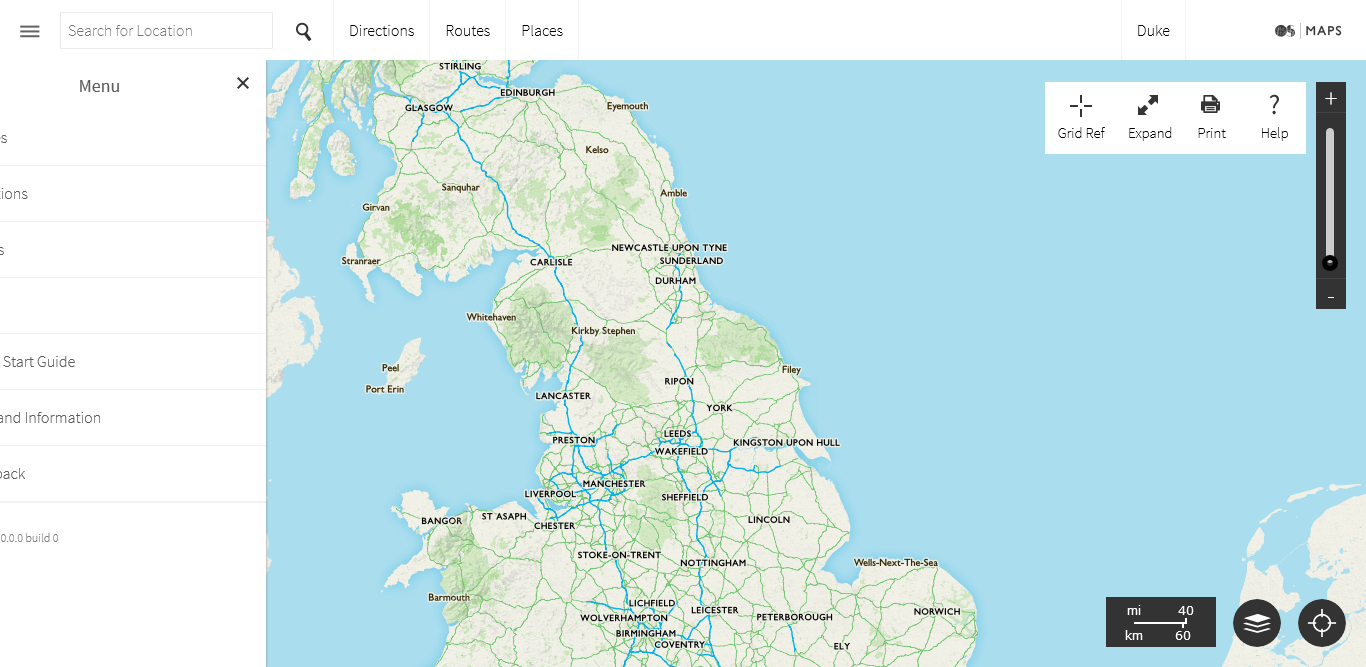
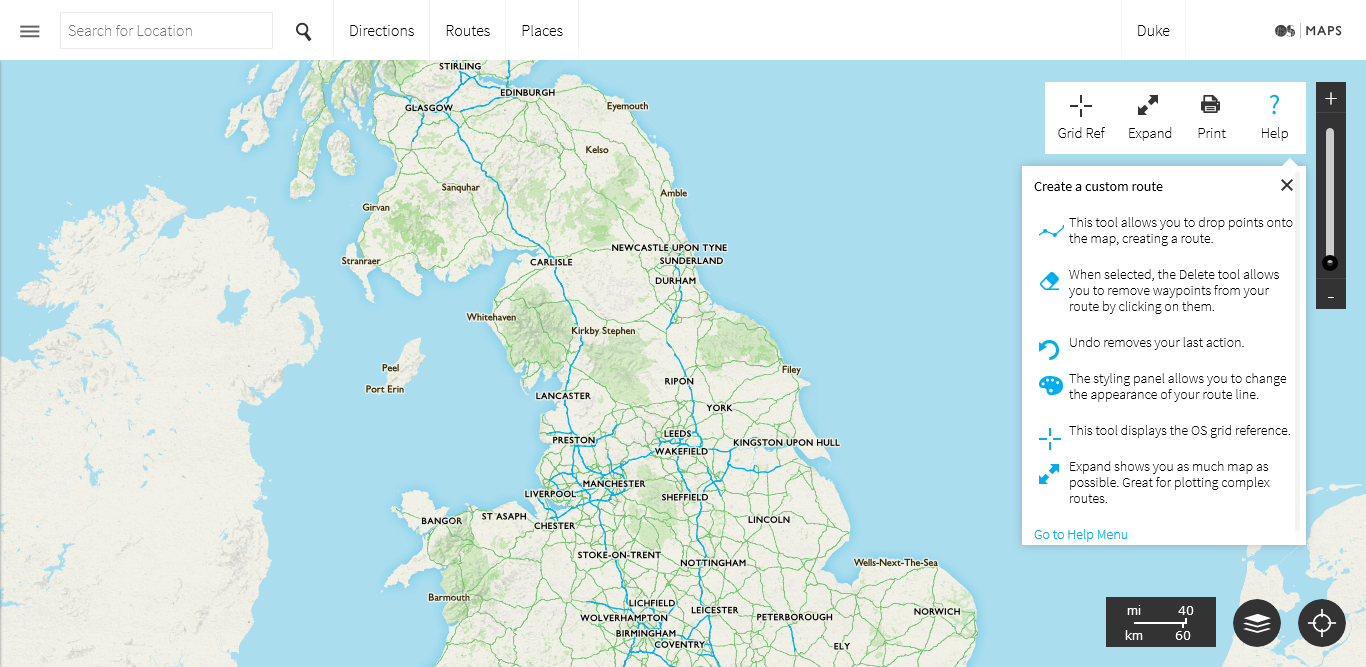
"Snap" test added, "Places" test modify

Changed region(s): [[0.0, 0.09, 0.2152, 1.0], [0.7379, 0.2399, 0.9531, 0.8396]]

diff --git a/html5-automationtest/target/reports/workingset/report.js b/html5-automationtest/target/reports/workingset/report.js
@@ -1,22 +1,22 @@
-$(document).ready(function() {var formatter = new CucumberHTML.DOMFormatter($('.cucumber-report'));formatter.uri("PlacesDisabled.feature");
+$(document).ready(function() {var formatter = new CucumberHTML.DOMFormatter($('.cucumber-report'));formatter.uri("SnapEnabled.feature");
 formatter.feature({
   "line": 2,
-  "name": "Verify if user is NOT able to see \"Places\" functionality",
+  "name": "Verify if \"Snap\" functionality is Enabled and it works as expected",
   "description": "",
-  "id": "verify-if-user-is-not-able-to-see-\"places\"-functionality",
+  "id": "verify-if-\"snap\"-functionality-is-enabled-and-it-works-as-expected",
   "keyword": "Feature",
   "tags": [
     {
       "line": 1,
-      "name": "@testDisabled"
+      "name": "@testEnabled"
     }
   ]
 });
 formatter.scenario({
   "line": 4,
-  "name": "Check whether \"Places\" is NOT available on top bar menu",
+  "name": "Check whether \"Snap\" functionality is available",
   "description": "",
-  "id": "verify-if-user-is-not-able-to-see-\"places\"-functionality;check-whether-\"places\"-is-not-available-on-top-bar-menu",
+  "id": "verify-if-\"snap\"-functionality-is-enabled-and-it-works-as-expected;check-whether-\"snap\"-functionality-is-available",
   "type": "scenario",
   "keyword": "Scenario"
 });
@@ -29,137 +29,131 @@ formatter.step({
   "comments": [
     {
       "line": 6,
-      "value": "#\t\tAnd \u0027Places\u0027 function is disabled"
+      "value": "#\t\tWhen \u0027Snap\u0027 functionality is enabled"
     }
   ],
   "line": 7,
-  "name": "\u0027Places\u0027 should NOT be visible",
-  "keyword": "Then "
-});
-formatter.match({
-  "location": "GivenSteps.i_log_into_OS_maps_as_a_guest_registered_subscribed_user()"
-});
-formatter.result({
-  "duration": 28594117897,
-  "status": "passed"
-});
-formatter.match({
-  "location": "PlacesDisabled_steps.directions_should_NOT_be_visible()"
-});
-formatter.result({
-  "duration": 35692436,
-  "status": "passed"
-});
-formatter.after({
-  "duration": 103970,
-  "status": "passed"
-});
-formatter.scenario({
-  "line": 9,
-  "name": "Check whether \"Places\" is available NOT in left slider menu",
-  "description": "",
-  "id": "verify-if-user-is-not-able-to-see-\"places\"-functionality;check-whether-\"places\"-is-available-not-in-left-slider-menu",
-  "type": "scenario",
-  "keyword": "Scenario"
-});
-formatter.step({
-  "line": 10,
-  "name": "I log into OS maps as a guest/registered/subscribed user",
-  "keyword": "Given "
-});
-formatter.step({
-  "comments": [
-    {
-      "line": 11,
-      "value": "#\t\tAnd \u0027Places\u0027 function is disabled"
-    }
-  ],
-  "line": 12,
-  "name": "I select left slider menu",
+  "name": "I switch to \u0027National Park pathways\u0027 map type",
   "keyword": "When "
 });
 formatter.step({
-  "line": 13,
-  "name": "\u0027Places\u0027 in left burger menu should NOT be visible",
+  "line": 8,
+  "name": "I zoom in map on National Park location",
+  "keyword": "And "
+});
+formatter.step({
+  "line": 9,
+  "name": "I open \u0027Create custom route\u0027",
+  "keyword": "And "
+});
+formatter.step({
+  "line": 10,
+  "name": "\u0027Snap\u0027 button should be visible and enabled",
   "keyword": "Then "
 });
 formatter.match({
   "location": "GivenSteps.i_log_into_OS_maps_as_a_guest_registered_subscribed_user()"
 });
 formatter.result({
-  "duration": 28789781507,
+  "duration": 25203768818,
   "status": "passed"
 });
 formatter.match({
-  "location": "WhenSteps.i_select_left_slider_menu()"
+  "location": "WhenSteps.i_switch_to_National_Park_pathways_map_type()"
 });
 formatter.result({
-  "duration": 284060267,
+  "duration": 552131702,
   "status": "passed"
 });
 formatter.match({
-  "location": "PlacesDisabled_steps.directions_in_left_burger_menu_should_NOT_be_visible()"
+  "location": "SnapEnabled_steps.i_zoom_in_map()"
 });
 formatter.result({
-  "duration": 28578313,
+  "duration": 360126886,
+  "status": "passed"
+});
+formatter.match({
+  "location": "WhenSteps.i_open_Create_custom_route()"
+});
+formatter.result({
+  "duration": 2622487700,
+  "status": "passed"
+});
+formatter.match({
+  "location": "SnapEnabled_steps.snap_button_should_be_visible_and_enabled()"
+});
+formatter.result({
+  "duration": 182723551,
   "status": "passed"
 });
 formatter.after({
-  "duration": 48638,
+  "duration": 127617,
   "status": "passed"
 });
 formatter.scenario({
-  "line": 15,
-  "name": "Check whether \"The Places menu\" topic is NOT available in Help Menu",
+  "line": 12,
+  "name": "Check whether \"Snap\" description is available in \u0027Create custom route\u0027 help topic",
   "description": "",
-  "id": "verify-if-user-is-not-able-to-see-\"places\"-functionality;check-whether-\"the-places-menu\"-topic-is-not-available-in-help-menu",
+  "id": "verify-if-\"snap\"-functionality-is-enabled-and-it-works-as-expected;check-whether-\"snap\"-description-is-available-in-\u0027create-custom-route\u0027-help-topic",
   "type": "scenario",
   "keyword": "Scenario"
 });
 formatter.step({
-  "line": 16,
+  "line": 13,
   "name": "I log into OS maps as a guest/registered/subscribed user",
   "keyword": "Given "
 });
 formatter.step({
   "comments": [
     {
-      "line": 17,
-      "value": "#\t\tAnd \u0027Places\u0027 function is disabled"
+      "line": 14,
+      "value": "#\t\tAnd \u0027Snap\u0027 function is enabled"
     }
   ],
-  "line": 18,
+  "line": 15,
   "name": "I open \u0027Help\u0027",
   "keyword": "When "
 });
 formatter.step({
-  "line": 19,
-  "name": "I should NOT be able to see \u0027The Places menu\u0027 topic",
+  "line": 16,
+  "name": "I click \u0027Create custom route\u0027 help topic",
+  "keyword": "And "
+});
+formatter.step({
+  "line": 17,
+  "name": "I should see \u0027Snap\u0027 description in content",
   "keyword": "Then "
 });
 formatter.match({
   "location": "GivenSteps.i_log_into_OS_maps_as_a_guest_registered_subscribed_user()"
 });
 formatter.result({
-  "duration": 22452479770,
+  "duration": 22877314627,
   "status": "passed"
 });
 formatter.match({
   "location": "WhenSteps.i_open_Help()"
 });
 formatter.result({
-  "duration": 287066021,
+  "duration": 289163589,
   "status": "passed"
 });
 formatter.match({
-  "location": "PlacesDisabled_steps.i_should_NOT_be_able_to_see_The_Directions_menu_topic()"
+  "location": "SnapDisabled_steps.i_click_Create_custom_route_help_topic()"
 });
 formatter.result({
-  "duration": 2105433873,
+  "duration": 845293372,
+  "status": "passed"
+});
+formatter.match({
+  "location": "SnapEnabled_steps.i_should_see_Snap_description_in_content()"
+});
+formatter.result({
+  "duration": 130933651,
   "status": "passed"
 });
 formatter.after({
-  "duration": 34806,
+  "duration": 34805,
   "status": "passed"
 });
 });

diff --git a/html5-automationtest/src/test/java/uk/co/ordnancesurvey/stepdefs/SnapEnabled_steps.java b/html5-automationtest/src/test/java/uk/co/ordnancesurvey/stepdefs/SnapEnabled_steps.java
@@ -1,0 +1,47 @@
+package uk.co.ordnancesurvey.stepdefs;
+
+import static org.junit.Assert.assertTrue;
+
+import org.apache.xerces.util.SynchronizedSymbolTable;
+import org.openqa.selenium.By;
+import org.openqa.selenium.WebDriver;
+import org.openqa.selenium.WebElement;
+import org.openqa.selenium.support.PageFactory;
+
+import cucumber.api.java.en.Then;
+import cucumber.api.java.en.When;
+import uk.co.ordnancesurvey.pagemodel.Html5Page;
+import uk.co.ordnancesurvey.utils.ObjectRepository;
+
+public class SnapEnabled_steps {
+
+	Html5Page mainPage;
+	private WebDriver driver;
+	ObjectRepository obj;
+
+	public SnapEnabled_steps(SharedWebDriver driver) {
+		this.driver = driver;
+		mainPage = PageFactory.initElements(driver, Html5Page.class);
+		obj = PageFactory.initElements(driver, ObjectRepository.class);
+	}
+
+	// Check whether "Snap" is available during route creation
+	
+	@When("^I zoom in map on National Park location$")
+	public void i_zoom_in_map() throws Throwable {
+		mainPage.searchMap("Hill Top");
+	}
+
+	@Then("^'Snap' button should be visible and enabled$")
+	public void snap_button_should_be_visible_and_enabled() throws Throwable {
+		assertTrue(mainPage.IsElementDisplayed(obj.snapButton));
+	}
+
+	// Check whether "Snap" description is available in 'Create custom route' help topic
+
+	@Then("^I should see 'Snap' description in content$")
+	public void i_should_see_Snap_description_in_content() throws Throwable {
+		assertTrue(mainPage.IsElementDisplayed(obj.snapHelpDescription));
+	}
+
+}

diff --git a/html5-automationtest/src/test/java/uk/co/ordnancesurvey/stepdefs/SnapDisabled_steps.java b/html5-automationtest/src/test/java/uk/co/ordnancesurvey/stepdefs/SnapDisabled_steps.java
@@ -1,0 +1,45 @@
+package uk.co.ordnancesurvey.stepdefs;
+
+import static org.junit.Assert.assertFalse;
+import static org.junit.Assert.assertTrue;
+
+import org.openqa.selenium.WebDriver;
+import org.openqa.selenium.support.PageFactory;
+
+import cucumber.api.java.en.Then;
+import cucumber.api.java.en.When;
+import uk.co.ordnancesurvey.pagemodel.Html5Page;
+import uk.co.ordnancesurvey.utils.ObjectRepository;
+
+public class SnapDisabled_steps {
+
+	Html5Page mainPage;
+	private WebDriver driver;
+	ObjectRepository obj;
+
+	public SnapDisabled_steps(SharedWebDriver driver) {
+		this.driver = driver;
+		mainPage = PageFactory.initElements(driver, Html5Page.class);
+		obj = PageFactory.initElements(driver, ObjectRepository.class);
+	}
+
+	// Check whether "Snap" is NOT available during route creation
+	
+	@Then("^'Snap' button is NOT visible$")
+	public void snap_button_is_NOT_visible() throws Throwable {
+		assertFalse(mainPage.IsElementDisplayed(obj.snapButton));
+	}
+
+	// Check whether "Snap" description is NOT available in 'Create custom route' help topic
+
+	@When("^I click 'Create custom route' help topic$")
+	public void i_click_Create_custom_route_help_topic() throws Throwable {
+		mainPage.click(obj.helpCreateRouteTopic);
+	}
+
+	@Then("^I should NOT be able to see 'Snap' description in content$")
+	public void i_should_NOT_be_able_to_see_Snap_description_in_content() throws Throwable {
+		assertFalse(mainPage.IsElementDisplayed(obj.snapHelpDescription));
+	}
+
+}

diff --git a/html5-automationtest/src/test/java/uk/co/ordnancesurvey/accceptanceTest/WorkingFeature.java b/html5-automationtest/src/test/java/uk/co/ordnancesurvey/accceptanceTest/WorkingFeature.java
@@ -9,8 +9,8 @@ import cucumber.api.junit.Cucumber;
 		format = {"pretty", "html:target/reports/workingset"}, 
 //			features = {"src/test/resources/features.functional/Sharing/"},glue="uk.co.ordnancesurvey.stepdefs")
 
-//			features = {"src/test/resources/features.functional/WhiteLabel"},glue="uk.co.ordnancesurvey.stepdefs", tags="@testEnabled")
-			features = {"src/test/resources/features.functional/WhiteLabel"},glue="uk.co.ordnancesurvey.stepdefs", tags="@testDisabled")
+			features = {"src/test/resources/features.functional/WhiteLabel"},glue="uk.co.ordnancesurvey.stepdefs", tags="@testEnabled")
+//			features = {"src/test/resources/features.functional/WhiteLabel"},glue="uk.co.ordnancesurvey.stepdefs", tags="@testDisabled")
 public class WorkingFeature {
 	
 }

diff --git a/html5-automationtest/src/test/java/uk/co/ordnancesurvey/stepdefs/WhenSteps.java b/html5-automationtest/src/test/java/uk/co/ordnancesurvey/stepdefs/WhenSteps.java
@@ -488,5 +488,21 @@ public class WhenSteps {
 	public void i_select_left_slider_menu() throws Throwable {
 		mainPage.click(obj.burgerMenu);
 	}
+	
+	@When("^I switch to 'National Park pathways' map type$")
+	public void i_switch_to_National_Park_pathways_map_type() throws Throwable {
+
+	// TO DO -> scenario when 'National Park pathways' map is disabled
+
+		mainPage.click(obj.mapStackButton);
+		mainPage.click(obj.nationalParkPathwaysMap);
+	}
+
+	@When("^I open 'Create custom route'$")
+	public void i_open_Create_custom_route() throws Throwable {
+		mainPage.click(obj.RoutesTab);
+		mainPage.click(obj.Create_Custom_Trail);
+	}
+	
 
 }

diff --git a/html5-automationtest/src/main/java/uk/co/ordnancesurvey/utils/ObjectRepository.java b/html5-automationtest/src/main/java/uk/co/ordnancesurvey/utils/ObjectRepository.java
@@ -446,6 +446,7 @@ public class ObjectRepository {
 		public final String preferencesAerialMapType = ".//*[@id='PreferencesExplorerType']";
 		public final String menuPlaces = ".//*[@id='BurgerMapFeatures']";
 		public final String placesWindow = ".//*[@id='Window_1_Content']/div[14]/div/div[1]";
-		
+		public final String snapButton = ".//*[@id='create-route-snap']";
+		public final String snapHelpDescription = "html/body/div[5]/div[1]/div/div[1]/div[2]/div[1]";
 		
 }
